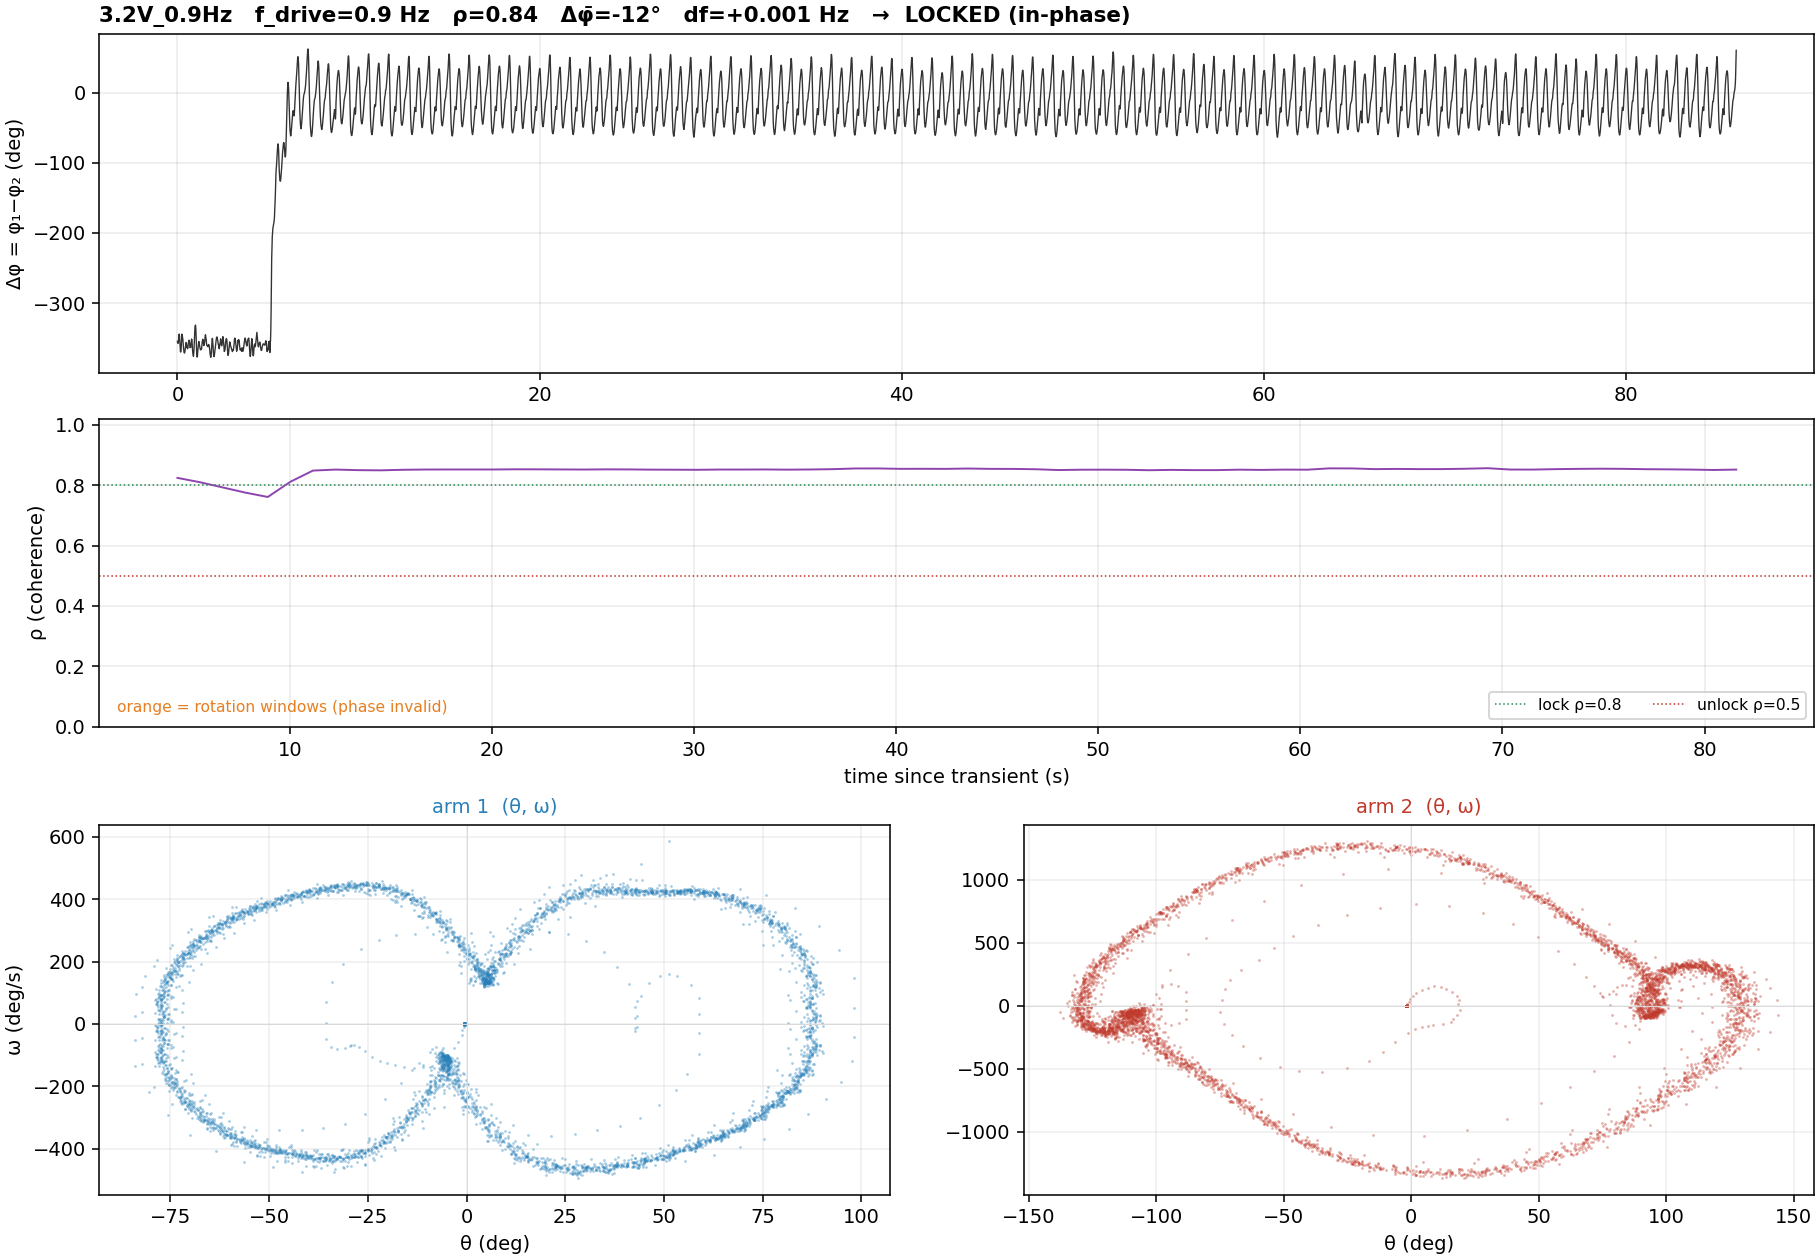
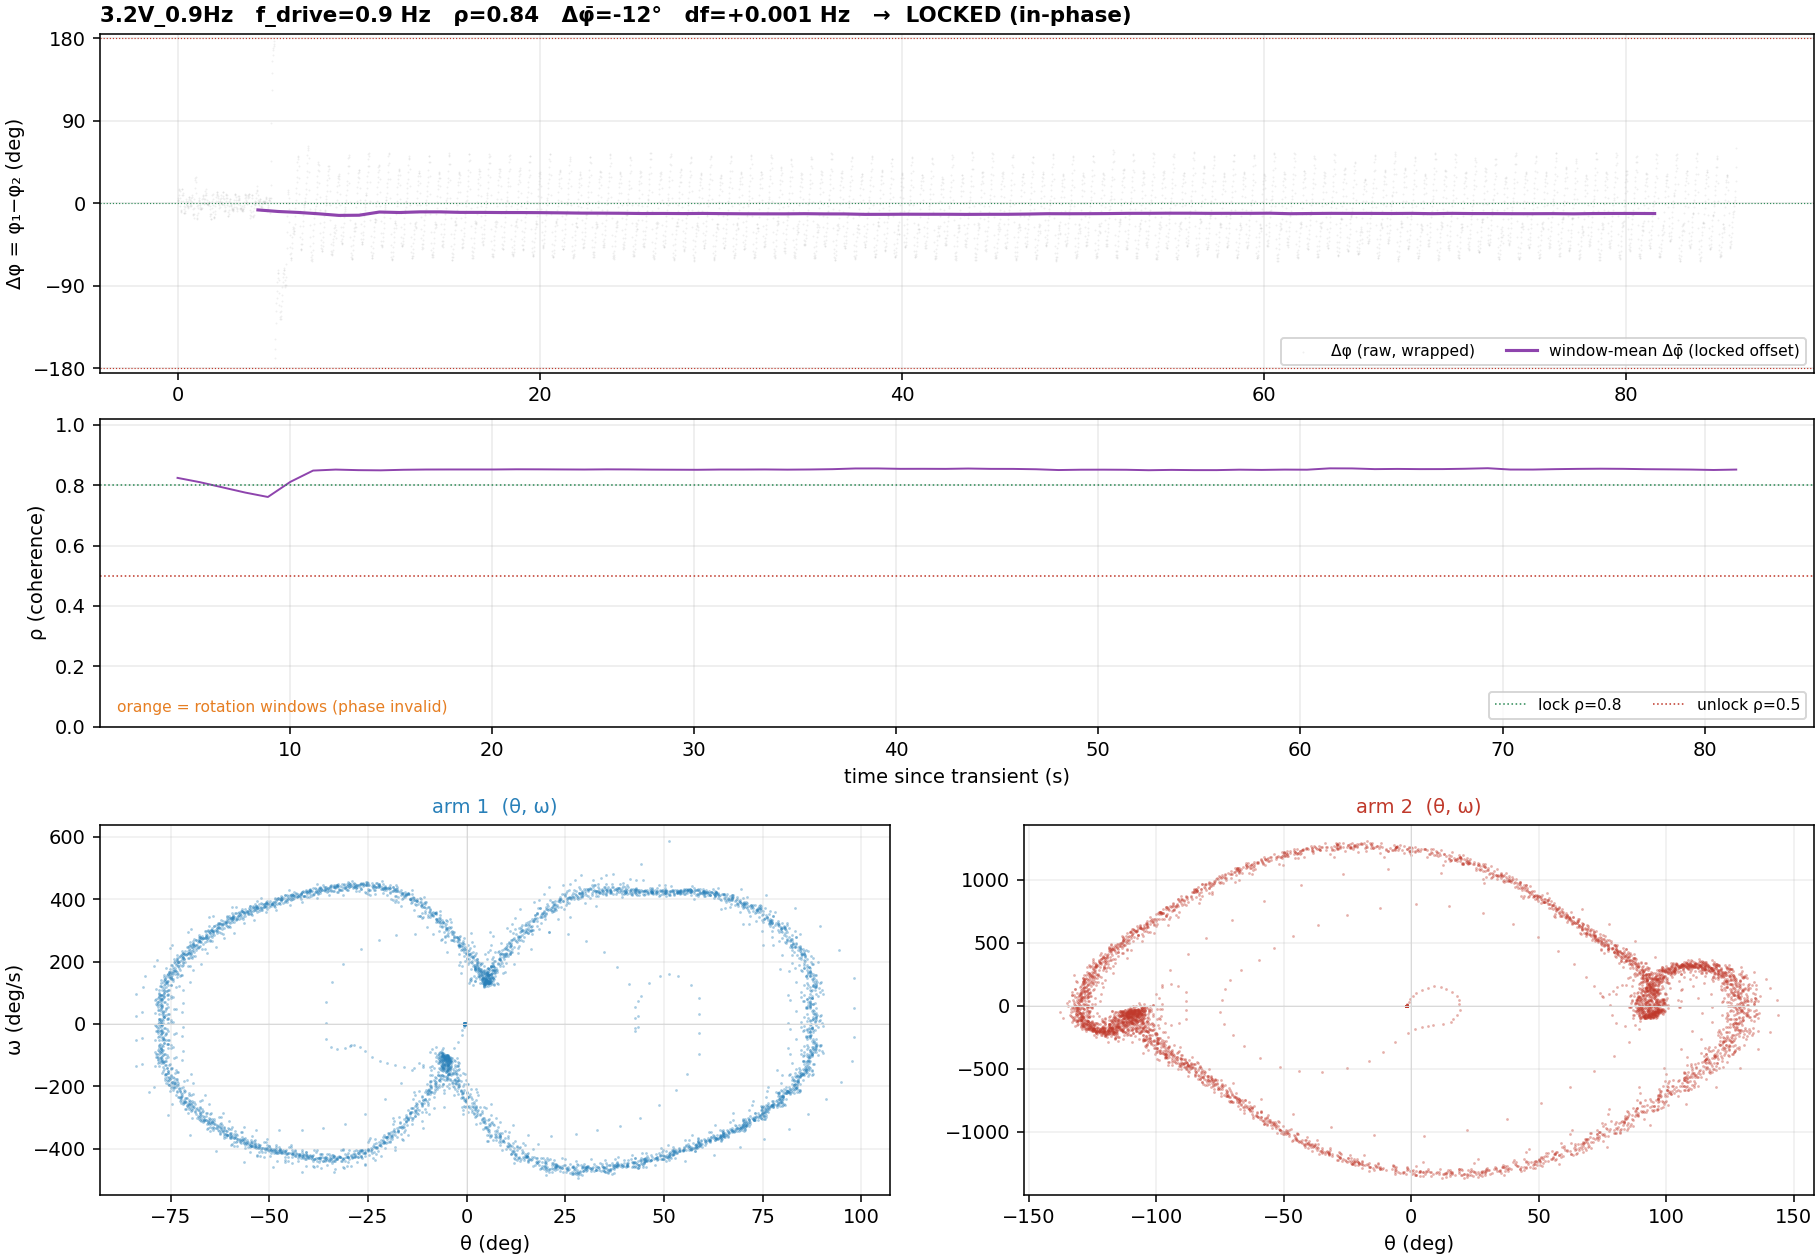
analysis: declutter phase-locking figures
Aggregate: drop the chaos-score twin axis (H/D2/lambda) from the left panel —
it was busy and misleading. ρ is now a single curve, blanked across the
rotation (chaotic) band which is shaded instead, since ρ is undefined where the
arm tumbles over the top. Right scatter keeps the ρ-vs-H correspondence with
labeled corners (locked+regular / unlocked+chaotic).

Per-clip primitive: the raw Δφ(t) sawtooth (intra-cycle wobble from arm 1's
figure-8 orbit) is now faint; the sliding-window mean Δφ̄ is the bold headline,
so "flat = locked" reads cleanly.

diff --git a/scripts/analysis/phase_locking.py b/scripts/analysis/phase_locking.py
@@ -247,9 +247,18 @@ def make_figure(res, out_path):
     fig = plt.figure(figsize=(13, 9), constrained_layout=True)
     gs = fig.add_gridspec(3, 2, height_ratios=[1.1, 1.0, 1.2])
 
-    # (1) dφ(t) — flat ⇒ locked, drifting ⇒ unlocked
+    # (1) relative phase — raw wrapped (faint) + sliding-window mean (bold).
+    # A locked clip sits at a near-constant offset; an unlocked one drifts/wraps.
     ax = fig.add_subplot(gs[0, :])
-    ax.plot(t0, np.degrees(dphi), lw=0.7, color="#333333")
+    ax.scatter(t0, wrap180(np.degrees(dphi)), s=1, alpha=0.15, color="0.6",
+               linewidths=0, label="Δφ (raw, wrapped)")
+    ax.plot(win["t"] - t[0], win["mean"], lw=1.6, color="#8e44ad",
+            label="window-mean Δφ̄ (locked offset)")
+    ax.axhline(0, color="#2e8b57", lw=0.6, ls=":")
+    ax.axhline(180, color="#c0392b", lw=0.6, ls=":")
+    ax.axhline(-180, color="#c0392b", lw=0.6, ls=":")
+    ax.set_ylim(-185, 185); ax.set_yticks([-180, -90, 0, 90, 180])
+    ax.legend(loc="lower right", fontsize=8, ncol=2)
     ax.set_ylabel("Δφ = φ₁−φ₂ (deg)")
     ax.set_title(f"{res['stem']}   f_drive={res['f_drive_hz']:g} Hz   "
                  f"ρ={res['rho']:.2f}   Δφ̄={res['mean_dphi_deg']:.0f}°   "
@@ -350,36 +359,46 @@ def run_sweep(voltage, transient_s):
     f, rho, mean, df, rotf, H, D2, lam = (arr(0), arr(1), arr(2), arr(3),
                                           arr(4), arr(6), arr(7), arr(8))
 
-    fig, (ax1, ax2) = plt.subplots(1, 2, figsize=(15, 5.5), constrained_layout=True)
-    # left: rho(f) + mean_dphi(f), chaos reference on twin axis
-    ax1.plot(f, rho, "o-", color="#8e44ad", label="ρ (arm coherence)")
-    ax1.plot(f, np.abs(mean) / 180.0, "s--", color="#16a085", ms=4,
-             label="|Δφ̄|/180° (0=in-phase,1=anti)")
-    ax1.scatter(f[rotf > TH.PLOCK_ROT_FRAC], rho[rotf > TH.PLOCK_ROT_FRAC],
-                s=90, facecolors="none", edgecolors="#e67e22", linewidths=1.5,
-                label="rotation-flagged", zorder=5)
-    ax1.axhline(TH.PLOCK_RHO_LOCK, color="0.6", ls=":", lw=0.8)
-    ax1.set_xlabel("drive frequency (Hz)"); ax1.set_ylabel("ρ  /  |Δφ̄|/180°")
-    ax1.set_ylim(0, 1.05); ax1.grid(alpha=0.25); ax1.legend(loc="center left", fontsize=8)
-    axb = ax1.twinx()
-    axb.plot(f, H, "^-", color="#c0392b", ms=4, alpha=0.85, label="H_θ₂ (chaos: entropy)")
-    axb.plot(f, D2 / 3.5, "v--", color="#7f1d1d", ms=3, alpha=0.6, label="D₂/3.5")
-    axb.plot(f, lam, ":", color="0.6", lw=1.0, alpha=0.7, label="λ₁ (non-discriminating)")
-    axb.set_ylabel("chaos score (H_θ₂, D₂/3.5, λ₁)")
-    axb.set_ylim(0, 1.2); axb.legend(loc="upper right", fontsize=7)
-    ax1.set_title("Arm phase-locking vs drive frequency", loc="left", fontweight="bold")
+    rotation = rotf > TH.PLOCK_ROT_FRAC
+    rho_valid = rho.copy()
+    rho_valid[rotation] = np.nan        # ρ is undefined where the arm rotates
 
-    # right: rho vs chaos score (primary = H_θ₂); test locked↔regular
-    sc = ax2.scatter(rho, H, c=f, cmap="viridis", s=45, edgecolors="k", linewidths=0.4)
-    for x, y, st in zip(rho, H, [r[9] for r in rows]):
-        if np.isfinite(x) and np.isfinite(y):
-            ax2.annotate(st.split("_")[1].replace("Hz", ""), (x, y),
-                         fontsize=6, alpha=0.6, xytext=(2, 2), textcoords="offset points")
-    ax2.axvline(TH.PLOCK_RHO_LOCK, color="#2e8b57", ls=":", lw=0.8)
-    ax2.axhline(0.4, color="#c0392b", ls=":", lw=0.8)
-    ax2.set_xlabel("ρ (arm coherence)"); ax2.set_ylabel("H_θ₂ (spectral entropy)")
-    ax2.set_title("locked (high ρ) ↔ regular (low H) ?", loc="left", fontweight="bold")
-    ax2.grid(alpha=0.25)
+    fig, (ax1, ax2) = plt.subplots(1, 2, figsize=(14, 5.2), constrained_layout=True)
+
+    # LEFT — arm coherence vs frequency. ρ is meaningful only where the arms
+    # librate; in the rotation (chaotic) band the phase angle degenerates, so
+    # we blank ρ there and shade the band instead. One axis, one curve.
+    if rotation.any():
+        ax1.axvspan(f[rotation].min(), f[rotation].max(), color="#e67e22",
+                    alpha=0.10, lw=0)
+        ax1.text(float(np.median(f[rotation])), 0.07,
+                 "rotation: arm 2 over-the-top\nρ undefined (chaotic core)",
+                 ha="center", va="bottom", fontsize=9, color="#b9560f")
+    ax1.plot(f, rho_valid, "o-", color="#8e44ad", lw=1.6, ms=6,
+             label="ρ (arm phase coherence)")
+    ax1.axhline(TH.PLOCK_RHO_LOCK, color="#2e8b57", ls=":", lw=1.0)
+    ax1.text(f.min(), TH.PLOCK_RHO_LOCK + 0.01, f" locked (ρ > {TH.PLOCK_RHO_LOCK})",
+             color="#2e8b57", fontsize=8, va="bottom")
+    ax1.set_xlabel("drive frequency (Hz)")
+    ax1.set_ylabel("ρ  (arm phase coherence)")
+    ax1.set_ylim(0, 1.05); ax1.grid(alpha=0.25)
+    ax1.legend(loc="lower center", fontsize=9)
+    ax1.set_title("Arms lock at the sweep ends, tumble in the middle",
+                  loc="left", fontweight="bold")
+
+    # RIGHT — do the two independent 'regular' tests agree? ρ (phase-lock) vs
+    # H_θ₂ (spectral). bottom-right = locked+regular, top-left = chaotic.
+    sc = ax2.scatter(rho, H, c=f, cmap="viridis", s=55, edgecolors="k", linewidths=0.4)
+    ax2.axvline(TH.PLOCK_RHO_LOCK, color="0.6", ls=":", lw=0.8)
+    ax2.axhline(0.4, color="0.6", ls=":", lw=0.8)
+    ax2.text(0.97, 0.18, "locked +\nregular", ha="right", va="center",
+             fontsize=9, color="#2e8b57", fontweight="bold")
+    ax2.text(0.06, 0.70, "unlocked /\nrotation +\nchaotic", ha="left", va="center",
+             fontsize=9, color="#c0392b", fontweight="bold")
+    ax2.set_xlabel("ρ (arm phase coherence)")
+    ax2.set_ylabel("H_θ₂ (spectral entropy)")
+    ax2.set_xlim(-0.02, 1.02); ax2.grid(alpha=0.25)
+    ax2.set_title("Two independent 'regular' tests agree", loc="left", fontweight="bold")
     fig.colorbar(sc, ax=ax2, label="f_drive (Hz)")
 
     out = aggregate_path(f"phase_locking_{voltage:g}V.png")
